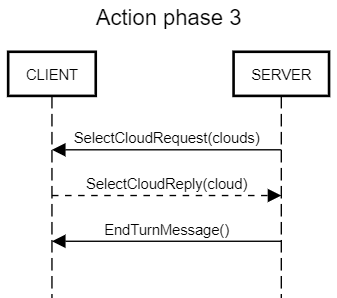
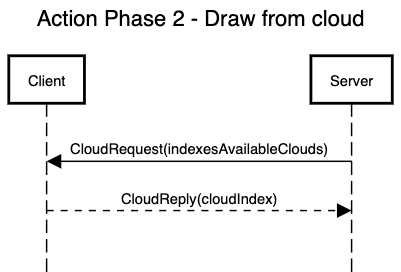
updated Protocol Documentation and deleted unused classes

diff --git a/src/main/java/it/polimi/ingsw/controller/Controller.java b/src/main/java/it/polimi/ingsw/controller/Controller.java
@@ -1,7 +1,6 @@
 package it.polimi.ingsw.controller;
 
 import it.polimi.ingsw.controller.phases.ClientHandlerPhases;
-import it.polimi.ingsw.controller.phases.gamePhases.ActionPhase;
 import it.polimi.ingsw.controller.phases.gamePhases.GamePhase;
 import it.polimi.ingsw.controller.phases.gamePhases.PlanningPhase;
 import it.polimi.ingsw.controller.phases.gamePhases.SetupPhase;
@@ -12,7 +11,6 @@ import it.polimi.ingsw.model.SchoolBoard;
 import it.polimi.ingsw.network.messages.clientMessages.GenericClientMessage;
 import it.polimi.ingsw.network.messages.serverMessages.BoardData;
 import it.polimi.ingsw.network.messages.serverMessages.IsWinner;
-import it.polimi.ingsw.network.messages.serverMessages.PhaseEntering;
 import it.polimi.ingsw.network.server.ClientHandler;
 import it.polimi.ingsw.network.server.Server;
 
@@ -71,9 +69,6 @@ public class Controller {
 
     public void setGamePhase(GamePhase gamePhase) {
         this.gamePhase = gamePhase;
-        if(gamePhase instanceof PlanningPhase || gamePhase instanceof ActionPhase){
-            broadcastMessage(new PhaseEntering(gamePhase.toString()));
-        }
         gamePhase.execute(this);
     }
 

diff --git a/src/main/java/it/polimi/ingsw/network/messages/MessageType.java b/src/main/java/it/polimi/ingsw/network/messages/MessageType.java
@@ -10,8 +10,6 @@ public enum MessageType {
     NICKNAME_REQUEST, NICKNAME_REPLY,
     WIZARD_REQUEST, WIZARD_REPLY,
 
-    PHASE_ENTERING,
-    START_TURN,
     CHOOSE_ASSISTANT_REQUEST, CHOOSE_ASSISTANT_REPLY,
 
     ACTION_REQUEST, ACTION_REPLY,
@@ -22,7 +20,6 @@ public enum MessageType {
     MNSTEPS_REQUEST, MNSTEPS_REPLY,
 
     CLOUD_REQUEST, CLOUD_REPLY,
-    END_TURN,
 
     RESULT,
 

diff --git a/deliveries/UML/Sequence Diagram/Eriantys Protocol Documentation.md b/deliveries/UML/Sequence Diagram/Eriantys Protocol Documentation.md
@@ -7,14 +7,14 @@ Group 45
 ## Messages
 
 ### NicknameRequest
-Server asks the client for a valid nickname. It is used to uniquely identify the user.
+Server asks the client for a valid nickname between 3 and 10 alphanumeric characters. It is used to uniquely identify the user.
 
 #### Response
 - NicknameReply(_nickname_).
 
 
 ### GameNameRequest
-Server asks the client for a valid game name. It is used to uniquely identify a game.
+Server asks the client for a valid game name between 3 and 10 alphanumeric characters. It is used to uniquely identify a game.
 
 #### Response
 - GameNameReply(_gameName_).
@@ -25,16 +25,21 @@ Server asks the client for a valid game name. It is used to uniquely identify a 
 Server asks the client for the game mode they want to play.
 
 #### Response
-- GameModeReply(_mode_).  
+- GameModeReply(_gameMode_).  
   mode can be one of the two: **easy** or **expert**.
 
 
-### NumPlayersRequest
+### PlayerNumberRequest
 Server asks the client for the number of players of the just created game.
 
 #### Response
-- NumPlayerReply(_num_).
+- PlayerNumberReply(_numPlayers_).
 
+### TextMessage
+It is used by the server to communicate a message to the client.
+
+#### Arguments
+- message: a String representing the message.
 
 ### WizardRequest
 Server asks the client to select one of the available wizards.
@@ -45,59 +50,54 @@ Server asks the client to select one of the available wizards.
 #### Response
 - WizardReply(_wizard_).
 
-
-### PhaseEnteringMessage
-Server communicates to the client the phase of the game about to start.
-
-#### Arguments
-- phase: specifies the phase of the game about to start (**planning**/**action**).
-
-
-### StartTurnMessage
-Server communicates to the current player's client that their turn has started.
-
-
 ### ChooseAssistantRequest
 Server asks the client to select one of the available assistants.
 
 #### Arguments
 - availableAssistants: list of the available assistants.
+- discardedAssistants: list of the assistants chosen by the other players in that round.
+- lightBoard: a light representation of the Board.
 
 #### Response
 - ChooseAssistantReply(_assistant_).
 
+### BoardData
+Server sends the client a light version of the board to be displayed by their view.
+
+#### Arguments
+- lightBoard: a light representation of the Board.
 
 ### ActionRequest
 Server asks the client to select one of the possible actions.
-
 
 #### Arguments
 - possibleActions: list of the possible actions.
 
 #### Response
-- ActionReply(_chosenAction_). 
+- ActionReply(_actionIndex_). 
   Depending on the current game phase, it can be one of the possible action type:  
   - `MOVE_STUDENT_ACTION`
   - `MOVE_MN_ACTION`
   - `BUY_CHARACTER_ACTION`
+  - `NEXT_PHASE_ACTION`
 
 
-### SelectStudentRequest
+### StudentRequest
 Server asks the client to select one of the students to be moved.
 
 #### Arguments
 - availableColors: possible colors to be chosen. It is used to check whether the selected color is valid or not.
 
 #### Response
-- SelectStudentReply(_studentColor_).  
+- StudentReply(_studColor_).  
   _studentColor_ is the color of the chosen student.
 
 
-### SelectPlaceRequest
+### PlaceRequest
 Server asks the client to select the place where they want to move the student.
 
 #### Response
-- SelectPlaceReply(_place_).  
+- PlaceReply(_place_).  
   _place_ is where the student will be moved.
 
 
@@ -105,35 +105,31 @@ Server asks the client to select the place where they want to move the student.
 Server asks the client to select one of three the available characters.
 
 #### Arguments
-- availableCharacter: possible character to be chosen.
+- lightBoard: a light representation of the Board containing a light version of the characters.
 
 #### Response
 ###### this reply contains all possible parameters that can be chosen, but only the necessary ones will be set by the user
 - SelectCharacterReply(_character_,_archiIndex_,_studentNumber_,_studColors_).
 
 
-### SelectMNStepsRequest
+### MNStepsRequest
 Server asks the client to select the number of steps mother nature will do.
 
 #### Arguments
 - maxMNSteps: maximum steps can do based on the selected assistant.
 
 #### Response
-- SelectMNStepsReply(_steps_).
+- MNStepsReply(_mnSteps_).
 
 
-### SelectCloudRequest
+### CloudRequest
 Server asks the client to select the cloud from which to take the students.
 
 #### Arguments
-- clouds: list of the available clouds.
+- indexesAvailableClouds: list of the indexes of available (not empty) clouds.
 
 #### Response
-- SelectCloudReply(_cloud_).
-
-
-### EndTurnMessage
-Server communicates to the current player's client that their turn has ended.
+- CloudReply(_cloudIndex_).
 
 
 ### ResultMessage
@@ -150,20 +146,19 @@ Server communicates to the client their game result.
 <img src="resources/1-AccessToTheGame.png" width=400px>
 
 1. Client accesses the server with IP address and server port;
-2. once connection is established, server asks the client for their nickname until it is valid (not already taken and only alphanumeric characters);
+2. once connection is established, server asks the client for their nickname until it is valid (not already taken, only 3 to 10 alphanumeric characters);
 3. server asks for the name of the game they want to join:
    1. if the name corresponds to that of one existing game, the client joins the lobby;
    2. otherwise a new game with that name is created. The server asks the game mode (**easy**/**expert**) and the number of players that will join;
-4. once all the players joined, the game starts and asks every client, following the connection order, to select a wizard from the list of the available ones.
+4. once all the players joined a lobby, the game starts and asks every client, following the connection order, to select a wizard from the list of the available ones.
 
 
 
 ### Planning Phase
 <img src="resources/2-PlanningPhase.png" width=350px>
 
-1. Server sends a message notifying the client that a phase (_planningPhase_) is about to start;
-2. server notifies the current player that their turn starts now;
-3. server asks the client to play an assistant card from their deck of available assistants. The server sends only the available assistants which have not already been chosen by the other players in this round.
+1. server asks the current player's client to play an assistant card from their deck of available assistants. The server sends only the available assistants which have not already been chosen by the other players in this round.
+2. the other(s) non-current player's client(s) receive a BoardData message in order to display the board.
 
 
 
@@ -171,11 +166,10 @@ Server communicates to the client their game result.
 
 <img src="resources/3-ActionPhase1.png" width="450"/>
 
-1. Server sends a message notifying the client that a phase (_actionPhase_) is about to start;
-2. server asks the client to do one of the following actions:
+1. server asks the client to do one of the following actions:
    1. select a student from the entrance and, after the reply, the place (**archipelago**/**dining room**) where they want to put it;
    2. select a character from the available ones to use their special effect. This action may only be chosen once in the whole turn.
-3. The operation 2 is repeated until three students from the entrance are moved.
+2. The operation 2 is repeated until all the actions are executed or the "Go to next phase" action is selected (the player need to move all 3 students and not select a character to make it appear).
 
 
 
@@ -186,13 +180,14 @@ Server communicates to the client their game result.
 Server asks the client to do one of the following actions:
     1. select a character from the available ones to use their special effect, if not chosen during the action phase 1;
     2. select the number of steps mother nature will take between 1 and maxMNSteps.
+If the player does not want to play a character, the "Go to next phase" action will appear after moving Mother Nature.
 
 
 ### Action Phase 3: Draw from cloud
 <img src="resources/5-ActionPhase3.png" width="300"/>
 
 1. Server asks the client to choose a cloud from the list of the still full ones;
-2. after the client reply, server notifies the client that their turn is over.
+2. after the client reply, another player's turn begin.
 
 
 ### End of the Game
